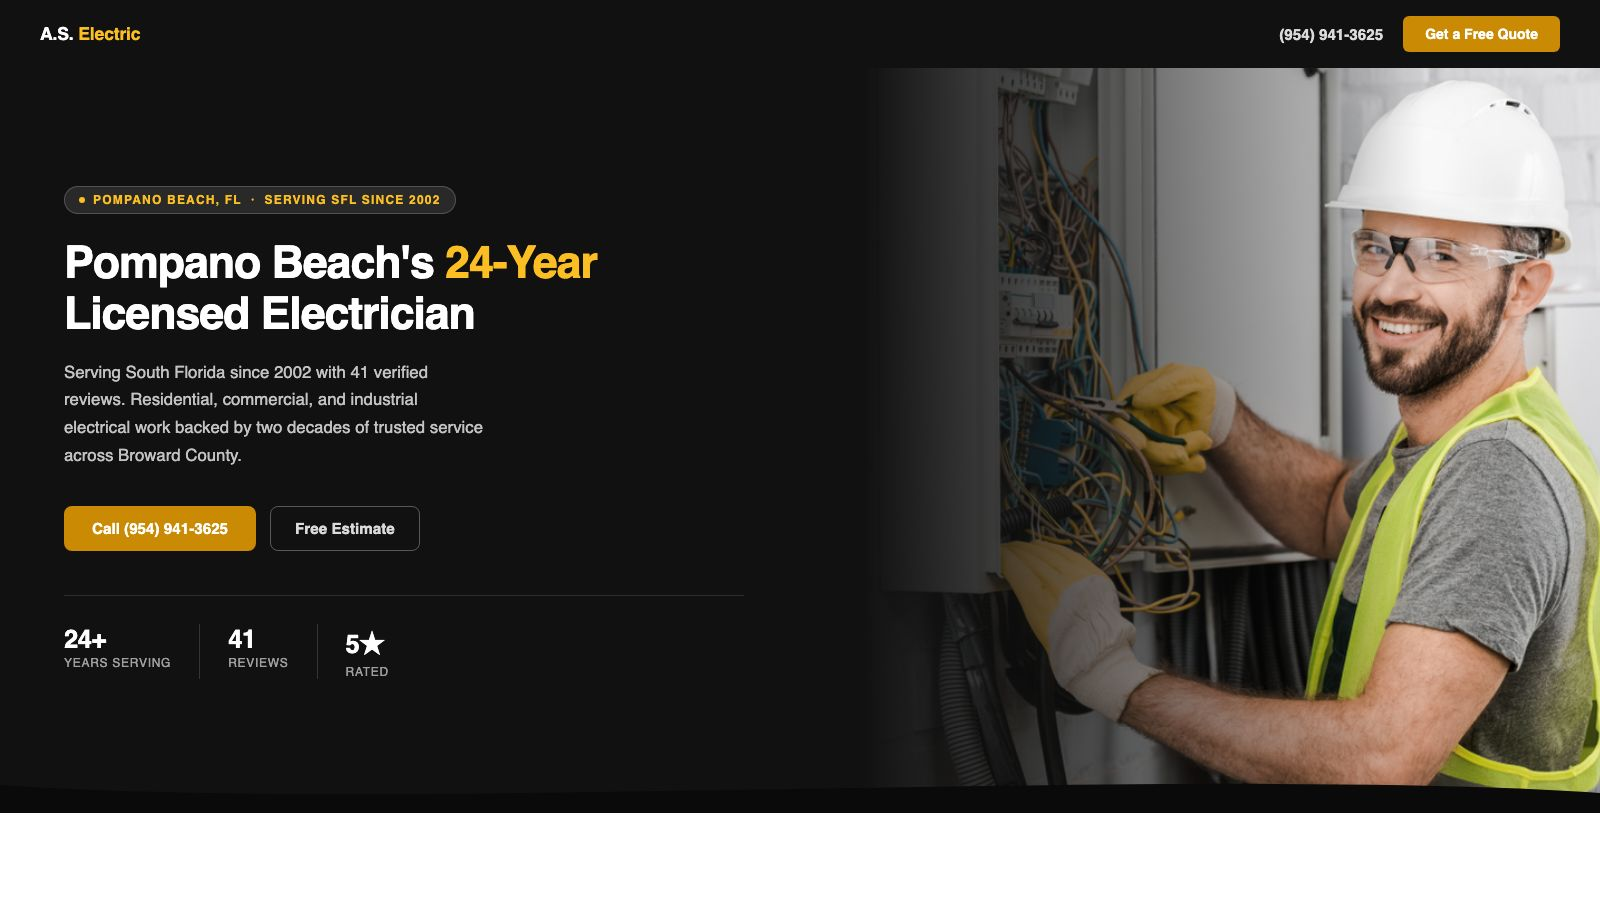
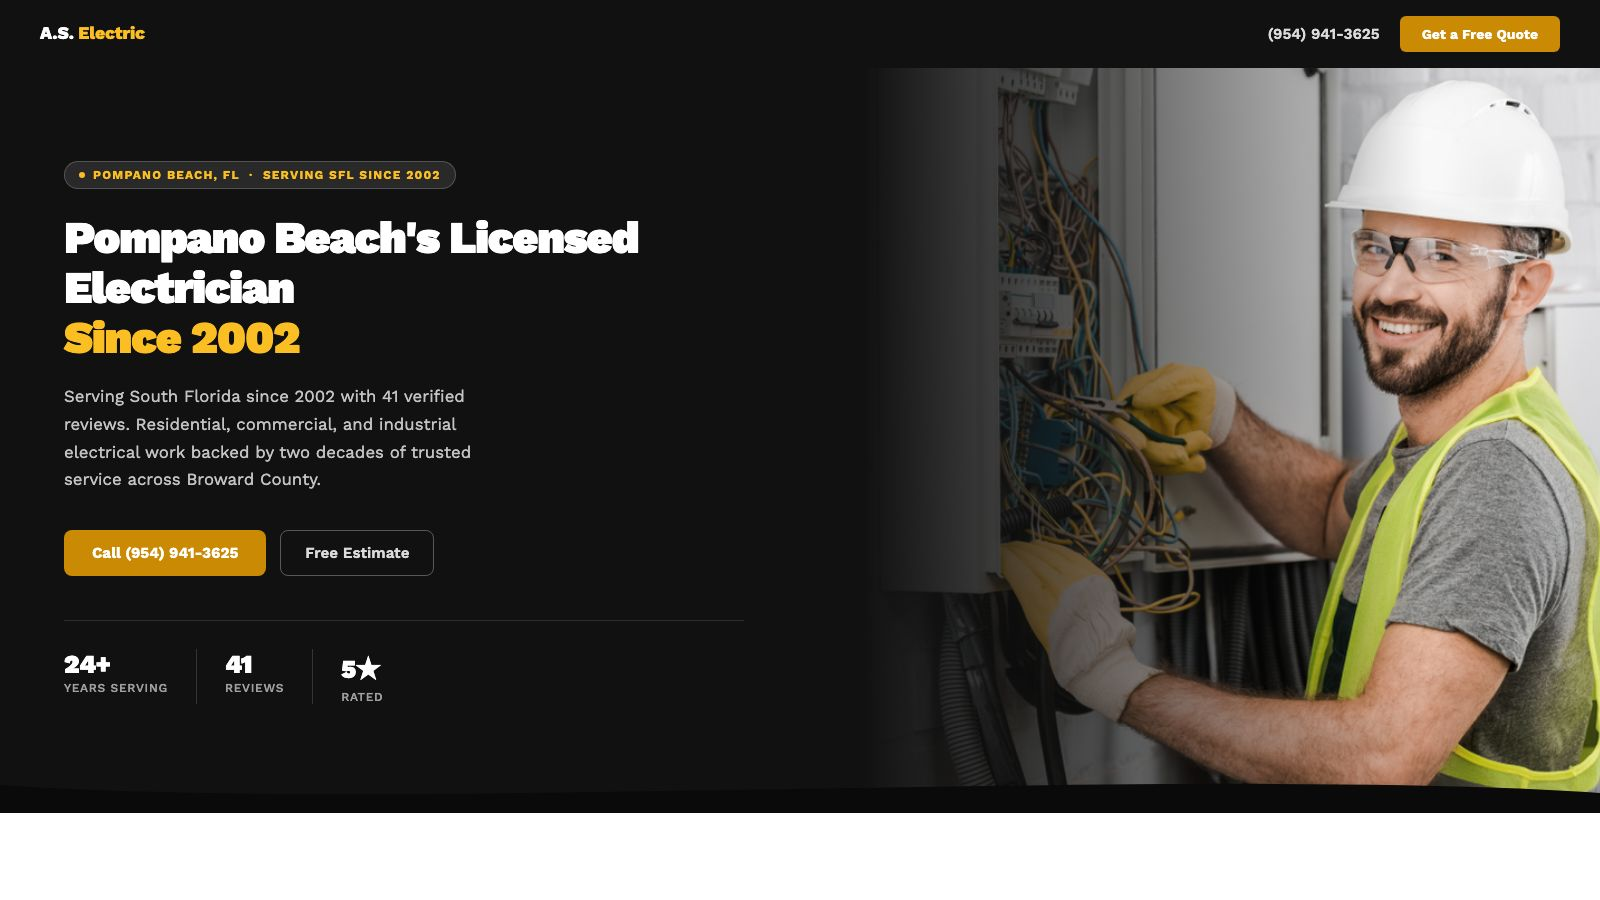
Replace XX-year headlines with since-YYYY style
mg-electric: "30-Year" → "Since 1994"
caner-electrical: "28-Year" → "Since 1996"
as-electric: "24-Year" → "Since 2002"
Regenerated preview.jpg for all three.

diff --git a/p/as-electric-pompano/index.html b/p/as-electric-pompano/index.html
@@ -127,7 +127,7 @@ h1 em{font-style:normal;color:var(--accent-light)}
 <section class="hero">
   <div class="hero-left">
     <div class="eyebrow">Pompano Beach, FL&nbsp;&nbsp;·&nbsp;&nbsp;Serving SFL Since 2002</div>
-    <h1>Pompano Beach's <em>24-Year</em><br>Licensed Electrician</h1>
+    <h1>Pompano Beach's Licensed Electrician<br><em>Since 2002</em></h1>
     <p class="hero-sub">Serving South Florida since 2002 with 41 verified reviews. Residential, commercial, and industrial electrical work backed by two decades of trusted service across Broward County.</p>
     <div class="hero-actions">
       <a href="tel:9549413625" class="btn-primary">Call (954) 941-3625</a>

diff --git a/p/caner-electrical-boca/index.html b/p/caner-electrical-boca/index.html
@@ -127,7 +127,7 @@ h1 em{font-style:normal;color:var(--accent-light)}
 <section class="hero">
   <div class="hero-left">
     <div class="eyebrow">Boca Raton, FL&nbsp;&nbsp;·&nbsp;&nbsp;In Business Since 1996</div>
-    <h1>Boca Raton's <em>28-Year</em><br>Master Electrician</h1>
+    <h1>Boca Raton's Master Electrician<br><em>Since 1996</em></h1>
     <p class="hero-sub">Former South Florida firefighter wiring homes and businesses in Boca Raton since 1996. Twenty-eight years of licensed, insured electrical work across Palm Beach and Broward counties.</p>
     <div class="hero-actions">
       <a href="tel:5614790601" class="btn-primary">Call (561) 479-0601</a>

diff --git a/p/mg-electric-lauderhill/index.html b/p/mg-electric-lauderhill/index.html
@@ -127,7 +127,7 @@ h1 em{font-style:normal;color:var(--accent-light)}
 <section class="hero">
   <div class="hero-left">
     <div class="eyebrow">Lauderhill, FL&nbsp;&nbsp;·&nbsp;&nbsp;Family Owned</div>
-    <h1>Lauderhill's <em>30-Year</em><br>Family Electrician</h1>
+    <h1>Lauderhill's Family Electrician<br><em>Since 1994</em></h1>
     <p class="hero-sub">Three decades of owner-operated electrical service across Broward, Miami, and Palm Beach counties. Licensed, insured, and available 24 hours a day.</p>
     <div class="hero-actions">
       <a href="tel:9543287918" class="btn-primary">Call (954) 328-7918</a>
